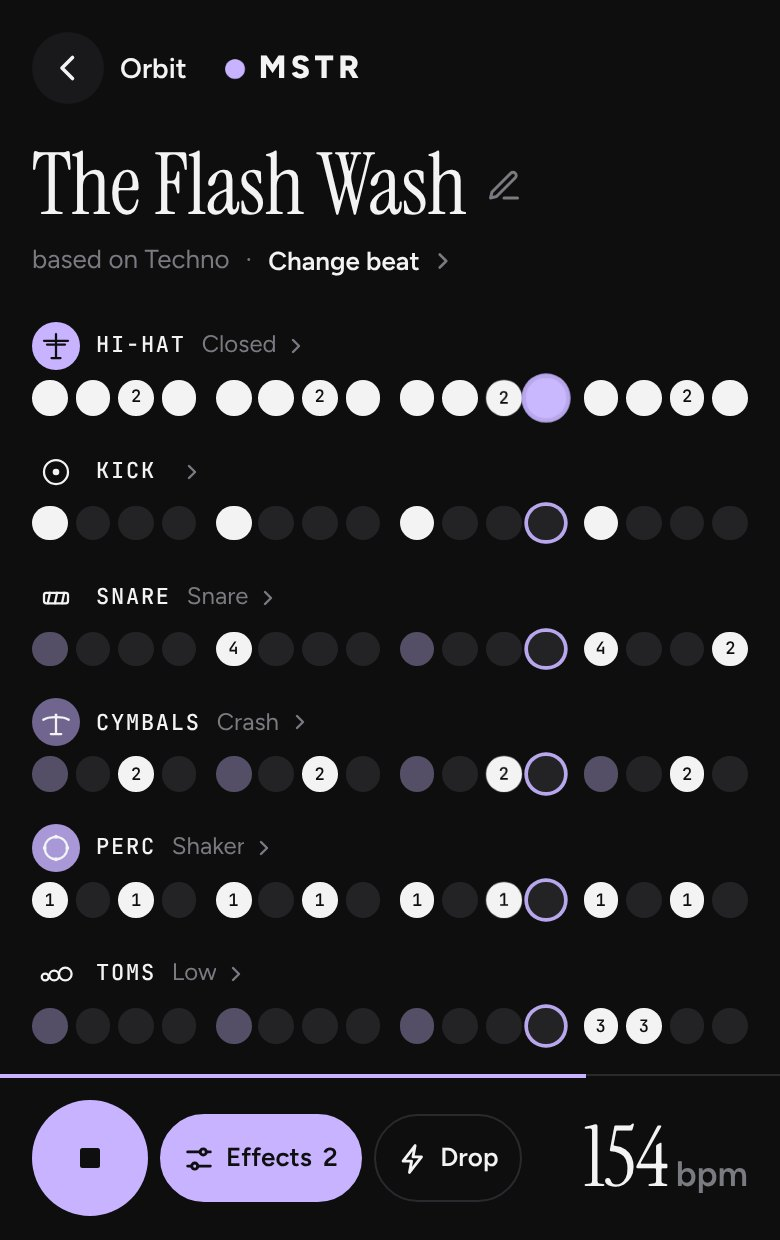
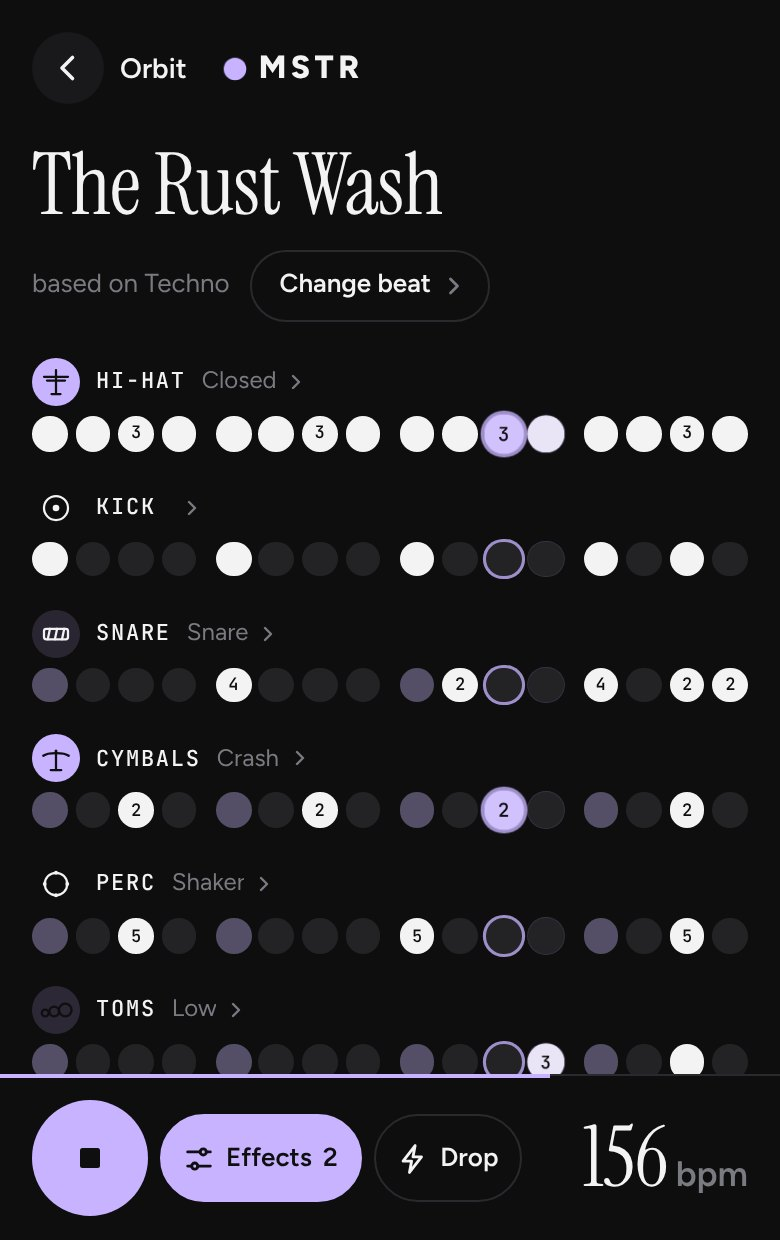
MSTR app: compact Orbit, real takes (mstr #34, #35)
App copy: no "New beat / Undo" toast, machine title read-only with a
"Change beat" pill, compact Orbit (link icon next to Share video, no
explainer line), and "Another take" now gives audibly different takes.
Re-shot vorschau-1 (machine) and vorschau-5 (Orbit).

Claude-Session: https://claude.ai/code/session_01WCtGHXdqNMZgkMLakytpzG

diff --git a/mstr/app/index.html b/mstr/app/index.html
@@ -54,12 +54,9 @@ button:focus-visible,input:focus-visible{outline:2px solid var(--accent);outline
 .pill:active,.ib:active{transform:scale(.97)}
 
 .head{display:flex;flex-direction:column;gap:4px}
-.preset{margin:0;cursor:pointer;display:flex;align-items:center;gap:10px;min-width:0;font-family:var(--f-ed);font-size:clamp(42px,11vw,60px);font-weight:400;letter-spacing:-.01em;line-height:1}
+.preset{margin:0;cursor:default;display:flex;align-items:center;gap:10px;min-width:0;font-family:var(--f-ed);font-size:clamp(42px,11vw,60px);font-weight:400;letter-spacing:-.01em;line-height:1}
 /* Share: der einzige farbige Knopf im Kopf, beim Spielen läuft darin ein winziger Orbit mit */
 .prow{display:flex;align-items:center;gap:14px}
-/* Stift: zeigt, dass der Titel antippbar ist */
-.preset .pen{width:18px;height:18px;flex:none;color:var(--mute)}
-.preset.fixed{cursor:default}.preset.fixed .pen{display:none}
 .preset #preTxt{min-width:0;overflow:hidden;text-overflow:ellipsis;white-space:nowrap}
 /* Textknöpfe: „Change beat“ unter dem Titel, der Link im Orbit */
 .lnk{border:0;background:none;padding:4px 0;font:600 13px var(--f-ui);color:var(--ink);display:inline-flex;align-items:center;gap:5px;cursor:pointer}
@@ -72,9 +69,11 @@ button:focus-visible,input:focus-visible{outline:2px solid var(--accent);outline
 .sayf .ib.go{width:52px;height:52px;flex:none;background:var(--accent);color:var(--on-accent)}
 .sayf .ib.go svg{width:22px;height:22px}
 .pill svg{width:17px;height:17px;flex:none}
-.sub{margin:0;font-size:13px;color:var(--mute);display:flex;align-items:center;gap:8px;min-height:24px}
+.sub{margin:6px 0 0;font-size:13px;color:var(--mute);display:flex;align-items:center;gap:10px;min-height:36px;flex-wrap:wrap}
+/* Change beat: ein eigener Knopf, im Raster wird nur noch der Beat gewechselt, benannt wird im Orbit */
+#preBtn{gap:4px;padding:0 10px 0 14px;color:var(--ink)}
+#preBtn svg{width:14px;height:14px;color:var(--mute)}
 #sub:empty{display:none}
-#sub:not(:empty)::after{content:"·";margin-left:8px}
 .shnote.left{text-align:left}
 
 /* Raster: Name-Zeile über 16 Punkten; ab 640 px Name links */
@@ -289,16 +288,13 @@ input[type=range]::-moz-range-thumb{width:20px;height:20px;border-radius:50%;bac
 .app.molecule .tracks,.app.molecule .beatrow{display:none}
 /* Im Orbit: Pfeil zurück links, die Marke bleibt in der Mitte (rechts ein gleich breiter Platzhalter) */
 .cardfoot{display:flex;gap:8px;align-items:center}
-.takes{display:flex;gap:8px;align-items:center;margin-top:6px}
+.takes{display:flex;gap:8px;align-items:center}
 .takes .play{width:56px;height:56px;flex:none}
 .takes .pill{flex:1;height:44px;padding:0 10px;font-size:13px}
 .takes .pill svg{width:15px;height:15px;flex:none}
-.machine{margin:0;padding:6px 0 2px;text-align:center;font-size:13px;color:var(--mute);display:flex;justify-content:center;gap:6px;align-items:center;flex-wrap:wrap}
+.machine{margin:0;padding:0 0 max(8px,env(safe-area-inset-bottom,0px));text-align:center;font-size:13px;color:var(--mute);display:flex;justify-content:center;gap:6px;align-items:center;flex-wrap:wrap}
 .machine .lnk{font-size:13px}
 .machine[hidden]{display:none}
-.cardlinks{display:flex;justify-content:center;gap:26px;margin-top:-6px}
-.cardlinks .lnk{font-size:14px}
-.cardlinks .lnk svg{width:15px;height:15px}
 /* Farbwahl im Orbit: fünf Punkte, der gewählte trägt einen Ring; die Orbit-Farbe färbt dort auch den Video-Knopf */
 /* Zurückhaltend wie die App: kleine graue Punkte, nur der gewählte trägt seine Farbe; die Tipp-Fläche bleibt groß */
 .hue{display:flex;justify-content:flex-start;gap:2px;height:0;position:relative;z-index:1}
@@ -309,14 +305,17 @@ input[type=range]::-moz-range-thumb{width:20px;height:20px;border-radius:50%;bac
 .hue button:active::after{transform:scale(.8)}
 .app.molecule{--accent:var(--orbit,#C7B3FF)}
 .cardfoot .pill{flex:1;width:auto}
-.cardfoot .ib{width:48px;height:48px}
+.cardfoot .ib{width:44px;height:44px;background:transparent;border:1px solid var(--line)}
+.cardfoot .ib.ok{color:var(--accent);border-color:var(--accent)}
 .app.molecule .head{display:none}
 /* In der Karte gibt es keine Leiste: Tipp auf den Ring spielt und stoppt, Tipp auf den Titel benennt */
 .app.molecule .transport{display:none}
 /* Orbit füllt genau den sichtbaren Bereich, nichts rutscht unter die Safari-Leiste; Play und Effekte stehen in der Reihe beim Knopf */
 .app.molecule{height:100%;height:100dvh;min-height:0;overflow:hidden;box-sizing:border-box}
 .app.molecule .cardfoot{padding-bottom:0}
-#shCardT{min-height:2.7em;padding-bottom:max(10px,env(safe-area-inset-bottom,0px));margin-top:-10px;line-height:1.35}
+/* Hinweis nur, wenn es etwas zu sagen gibt (Video entsteht, fertig, Link kopiert) */
+#shCardT{margin-top:-4px;line-height:1.35}
+.app.molecule{gap:12px}
 /* Video entsteht: der Knopf füllt sich von links mit dem Fortschritt (--p 0..1) */
 .pill.go.gen,.pill.go.gen:disabled{opacity:1;color:var(--ink);border-color:transparent;background:linear-gradient(90deg,color-mix(in srgb,var(--accent) 60%,var(--bg)) calc(var(--p,0) * 100%),color-mix(in srgb,var(--accent) 18%,var(--bg)) calc(var(--p,0) * 100%));transition:background .2s linear}
 </style>
@@ -329,17 +328,16 @@ input[type=range]::-moz-range-thumb{width:20px;height:20px;border-radius:50%;bac
     <span class="eyebrow vibetxt" id="vibeTxt"></span>
   </header>
   <div class="head">
-    <div class="prow"><h1 class="preset" id="preName" title="Name your beat"><span id="preTxt">Amapiano</span><svg class="pen" viewBox="0 0 24 24" aria-hidden="true"><path d="M12 20h9M16.5 3.5a2.1 2.1 0 0 1 3 3L7 19l-4 1 1-4Z" fill="none" stroke="currentColor" stroke-width="2" stroke-linecap="round" stroke-linejoin="round"/></svg></h1></div>
-    <p class="sub"><span id="sub"></span><button type="button" class="lnk" id="preBtn" aria-haspopup="dialog">Change beat<svg viewBox="0 0 24 24" aria-hidden="true"><path d="M9 6l6 6-6 6" fill="none" stroke="currentColor" stroke-width="2.4" stroke-linecap="round" stroke-linejoin="round"/></svg></button></p>
+    <div class="prow"><h1 class="preset" id="preName"><span id="preTxt">Amapiano</span></h1></div>
+    <p class="sub"><span id="sub"></span><button type="button" class="pill" id="preBtn" aria-haspopup="dialog">Change beat<svg viewBox="0 0 24 24" aria-hidden="true"><path d="M9 6l6 6-6 6" fill="none" stroke="currentColor" stroke-width="2.4" stroke-linecap="round" stroke-linejoin="round"/></svg></button></p>
   </div>
   <main class="tracks" id="tracks" aria-label="Tracks"></main>
   <canvas class="mol" id="mol" hidden aria-label="Your beat as an orbit. Tap the ring to play or stop, tap the title to name it, swipe sideways to change the colour" role="button" tabindex="0"></canvas>
   <div class="hue" id="hue" hidden role="radiogroup" aria-label="Orbit colour"></div>
   <div class="takes" id="takes" hidden><button type="button" class="pill" id="takeBtn"><svg viewBox="0 0 24 24" aria-hidden="true"><path d="M4 12a8 8 0 0 1 14-5.3M20 12a8 8 0 0 1-14 5.3M18 3v4h-4M6 21v-4h4" fill="none" stroke="currentColor" stroke-width="2" stroke-linecap="round" stroke-linejoin="round"/></svg>Another take</button><button type="button" class="pill" id="vibeBtn"><svg viewBox="0 0 24 24" aria-hidden="true"><path d="M4 7h16M4 12h10M4 17h6" fill="none" stroke="currentColor" stroke-width="2" stroke-linecap="round"/></svg>Change vibe</button></div>
-  <div class="cardfoot" id="cardfoot" hidden><button type="button" class="pill wide go" id="shCardBtn">Share video</button></div>
-  <div class="cardlinks" id="cardlinks" hidden><button type="button" class="lnk" id="shSend"><svg viewBox="0 0 24 24" aria-hidden="true"><path d="M10 14a4 4 0 0 0 5.7 0l3-3a4 4 0 0 0-5.7-5.7l-1 1M14 10a4 4 0 0 0-5.7 0l-3 3a4 4 0 0 0 5.7 5.7l1-1" fill="none" stroke="currentColor" stroke-width="2" stroke-linecap="round"/></svg><span>Copy link</span></button></div>
+  <div class="cardfoot" id="cardfoot" hidden><button type="button" class="pill wide go" id="shCardBtn">Share video</button><button type="button" class="ib" id="shSend" aria-label="Copy link" title="Copy link"><svg viewBox="0 0 24 24" aria-hidden="true"><path d="M10 14a4 4 0 0 0 5.7 0l3-3a4 4 0 0 0-5.7-5.7l-1 1M14 10a4 4 0 0 0-5.7 0l-3 3a4 4 0 0 0 5.7 5.7l1-1" fill="none" stroke="currentColor" stroke-width="2" stroke-linecap="round"/></svg></button></div>
   <p class="shnote" id="shCardT" hidden></p>
-  <p class="machine" id="machineRow" hidden>Want to tweak every hit? <button type="button" class="lnk" id="vMachine">Open the machine<svg viewBox="0 0 24 24" aria-hidden="true"><path d="M9 6l6 6-6 6" fill="none" stroke="currentColor" stroke-width="2.4" stroke-linecap="round" stroke-linejoin="round"/></svg></button></p>
+  <p class="machine" id="machineRow" hidden><button type="button" class="lnk" id="vMachine">Open the machine<svg viewBox="0 0 24 24" aria-hidden="true"><path d="M9 6l6 6-6 6" fill="none" stroke="currentColor" stroke-width="2.4" stroke-linecap="round" stroke-linejoin="round"/></svg></button></p>
   <div class="trk beatrow" aria-hidden="true"><div class="tl"></div><div class="steps"><div class="grp"><span>1</span><span></span><span></span><span></span></div><div class="grp"><span>2</span><span></span><span></span><span></span></div><div class="grp"><span>3</span><span></span><span></span><span></span></div><div class="grp"><span>4</span><span></span><span></span><span></span></div></div></div>
   <footer class="transport">
     <button type="button" class="play" id="play" aria-label="Play (Space)"></button>
@@ -940,7 +938,7 @@ var WORTE=(function(){
     dnb:"drum ?(and|n|'n'|&) ?bass|dnb|d&b|liquid",
     afrobeats:'afro|afrobeat|afrobeats|nigeria|lagos|afropop',
     reggaeton:'reggaeton|dembow|latin|perreo',
-    minimal:'minimal techno|minimal|microhouse|tech ?house',
+    minimal:'minimal techno|microhouse|tech ?house',
     twostep:'2 ?-?step|two ?-?step|uk garage|ukg|garage',
     jungle:'jungle|breakbeat|breaks|amen',
     electro:'electro|robot|kraftwerk|machine|maschine|roboter',
@@ -966,7 +964,9 @@ var WORTE=(function(){
     ['tired|muede|exhausted|erschoepft|hopeful|hoffnung|gentle|zart|soft|sanft','lofi','onedrop'],
     ['drive|driving|road|strasse|autobahn|highway|cruise|cruising|roadtrip|road trip','techno','house'],
     ['spacey|cosmic|kosmisch|galaxy|galaxie|planet|moon|mond','minimal','techno'],
-    ['glitchy|glitch|broken|kaputt|chopped|stutter','electro','jungle']];
+    ['glitchy|glitch|broken|kaputt|chopped|stutter','electro','jungle'],
+    /* „minimal“ allein ist eher Dichte als Stil: nur wenn nichts anderes davor steht, wird es Minimal */
+    ['minimal|sparse|reduced|reduziert','minimal','minimal']];
   /* Klänge: Spur, Zeichen, Muster (null: eigene Regel unten) */
   var SOUND=[
     ['clap|klatsch',2,'c'],['rim|rimshot|sidestick',2,'k'],
@@ -1017,7 +1017,12 @@ var WORTE=(function(){
     function idx(n){return ctx.n.indexOf(n);}
     /* Stil: was zuerst im Text steht; „minimal techno“ zählt als Minimal */
     for(id in STYLE){i=find(t,STYLE[id]);if(i>=0&&(i<bi||(i===bi&&id==='minimal'))&&!neg(t,i)){bi=i;best=idx(id);}}
-    if(best<0){var mi=1e9;MOOD.forEach(function(m){var j=find(t,m[0]);if(j>=0&&j<mi){mi=j;best=idx(rnd()<.6?m[1]:m[2]);}});}
+    /* Stimmung: die zuerst genannte entscheidet (60/40 zwischen ihren zwei Vorlagen). Bei „Another take“ (ctx.avoid = Vorlage des
+       letzten Takes) kommen alle Vorlagen der genannten Stimmungen in den Topf, und die letzte bleibt draußen, wenn es andere gibt */
+    var styled=best>=0;
+    if(best<0){var mi=1e9,pot=[];MOOD.forEach(function(m){var j=find(t,m[0]);if(j<0)return;[m[1],m[2]].forEach(function(n){if(pot.indexOf(idx(n))<0)pot.push(idx(n));});
+      if(j<mi){mi=j;best=idx(rnd()<.6?m[1]:m[2]);}});
+      if(ctx.avoid!=null&&ctx.avoid===best){var alt=pot.filter(function(q){return q!==ctx.avoid;});if(alt.length)best=pick(alt);}}
     /* Tempo als Zahl (nicht „80s“ oder „90er“) */
     var num=/(^|\s)(\d{2,3})\s*(bpm)?(?=\s)/.exec(t.replace(/\b\d{2}(s|er|ies)\b/g,' ')),bpm=null;
     if(num&&+num[2]>=60&&+num[2]<=180)bpm=+num[2];
@@ -1032,7 +1037,7 @@ var WORTE=(function(){
       if(find(t,'very fast|super fast|sehr schnell|insane|wahnsinnig')>=0)f=1.22;
       else if(find(t,'fast|faster|schnell|quick|hektisch|frantic|rush|uptempo|up-tempo|energetic|treibend|driving')>=0)f=1.1;
       if(find(t,'half ?time|halftime')>=0)f*=.75;if(find(t,'double ?time')>=0)f*=1.3;
-      bpm=Math.round(base*f+(rnd()-.5)*4);}
+      bpm=Math.round(base*f+(rnd()-.5)*12);}
     bpm=Math.max(60,Math.min(180,bpm));
     /* Swing */
     if(find(t,'swing|swung|shuffle|wonky|drunk|betrunken|lazy|laid ?back|groovy|jazzy|bouncy|dilla|loose|locker')>=0)sw=Math.max(sw,find(t,'very|heavy|sehr|drunk|betrunken|dilla')>=0?.45:.3);
@@ -1052,10 +1057,18 @@ var WORTE=(function(){
       if(g[4]===dots('................'))g[4]=dots(pick(['1.1.1.1.1.1.1.1.','4..4..4...4.4...','..1...1...1...1.']));
       if(g[5]===dots('................'))g[5]=dots('............tpb.');}
 
-    /* Etwas Zufall, damit jede Beschreibung leicht anders klingt: ein paar Hats tauschen, mal eine Ghost-Note */
-    for(k=0;k<16;k++){var c=g[0].charAt(k);if(c==='x'&&k%4===3&&rnd()<.2)g[0]=set(g[0],k,'k');}
-    if(!sparse&&rnd()<.5){var gs=pick([3,7,11,14,15]);if(g[2].charAt(gs)==='0')g[2]=set(g[2],gs,'k');}
-    if(!sparse&&rnd()<.3){var ks=pick([6,10,11,14]);if(g[1].charAt(ks)==='0')g[1]=set(g[1],ks,'b');}
+    /* Jeder Take bekommt einen eigenen Groove, damit „Another take“ hörbar anders ist: Hi-Hat-Figur, Kick-Schub, Ghost-Notes,
+       Percussion, Tom-Fill und FX-Akzent werden neu gewürfelt; genannte Klänge und „ohne …“ kommen danach und gewinnen */
+    var EMPTY=dots('................');
+    if(g[0]!==EMPTY&&rnd()<.75)g[0]=dots(pick(sparse?['..o...o...o...o.','x...x...x...x...','..x...x...x..kx.']:
+      ['x.x.x.x.x.x.x.x.','xkxkxkxkxkxkxkxk','x.xkx.x.x.xkx.xx','..o...o...o...o.','x.o.x.o.x.o.x.o.','xxkxxxkxxxkxxxkx','x..xx.x.x..xx.x.']));
+    if(g[1]!==EMPTY&&rnd()<.6){var kv=pick(sparse?[[3],[10],[14]]:[[3],[6],[10,11],[14],[7,10],[6,14]]);kv.forEach(function(q){if(g[1].charAt(q)==='0')g[1]=set(g[1],q,'b');});}
+    if(!sparse&&g[2]!==EMPTY){var gn=1+Math.floor(rnd()*3);while(gn--){var gs=pick([2,3,7,9,11,14,15]);if(g[2].charAt(gs)==='0')g[2]=set(g[2],gs,'k');}}
+    if(!sparse&&rnd()<.55)g[4]=dots(pick(['1.1.1.1.1.1.1.1.','4..4..4...4.4...','..1...1...1...1.','3..3..3...3.3...','..5.....5.....5.','1111.1.11111.1.1','....2.......2...']));
+    else if(sparse&&rnd()<.5)g[4]=dots(pick(['..1...1...1...1.','....2.......2...','..5.....5.....5.','3.....3.....3...']));
+    if(rnd()<.35)g[5]=dots(pick(['............t.p.','..............pb','...........t..b.','............tpb.']));
+    if(!sparse&&rnd()<.3)g[6]=dots(pick(['....m.......m...','............z...','............s...','m.......m.......']));
+    if(!styled&&ctx.avoid!=null&&find(t,'straight|gerade|tight|robotic|mechanical|mechanisch')<0&&rnd()<.35)sw=Math.min(.45,sw+.1+rnd()*.12);
 
     /* Klänge, die genannt werden; „ohne …“ leert die Spur */
     SOUND.forEach(function(s){i=find(t,s[0]);if(i<0||neg(t,i))return;var r=s[1];
@@ -1070,13 +1083,18 @@ var WORTE=(function(){
     /* Effekte: alles aus, außer was gesagt wird; Lo-Fi und Dub bringen ihr Vinyl und Echo mit */
     var fx={};
     FXW.forEach(function(f){i=find(t,f[1]);if(i>=0&&!neg(t,i))fx[f[0]]=[amount(t,i),f[2]];});
+    var said=Object.keys(fx);
     if(ctx.n[best]==='lofi'&&!fx.lofi&&find(t,'vinyl|staub|dust')<0&&!/(no|without|ohne|kein)\s+(vinyl|crackle|knistern)/.test(t))fx.lofi=[45,0];
     if(find(t,'dub')>=0&&!fx.echo)fx.echo=[60,3];
     if(find(t,'dreamy|traeum|ambient|ethereal|floating|schweben')>=0&&!fx.echo)fx.echo=[35,3];
     /* Nichts genannt: der Stil bringt seine Effekte mit, die Stimmung legt einen dazu; „dry“ lässt alles aus */
     if(find(t,DRY)<0){
       if(!Object.keys(fx).length){var sf=STYLEFX[ctx.n[best]]||[['room',30,0]];fx[sf[0][0]]=[sf[0][1],sf[0][2]];if(sf[1]&&rnd()<.5)fx[sf[1][0]]=[sf[1][1],sf[1][2]];}
-      MOODFX.forEach(function(m){if(!fx[m[1]]&&Object.keys(fx).length<3&&find(t,m[0])>=0&&!neg(t,find(t,m[0])))fx[m[1]]=[m[2],m[3]];});}
+      MOODFX.forEach(function(m){if(!fx[m[1]]&&Object.keys(fx).length<3&&find(t,m[0])>=0&&!neg(t,find(t,m[0])))fx[m[1]]=[m[2],m[3]];});
+      /* Ein Take würfelt auch die Effekte: Stärken streuen (genannte behalten ihre Stärke), manchmal kommt einer dazu */
+      var POOL=[['room',35,0],['echo',30,3],['sweep',35,4],['pump',35,4],['stut',30,2],['lofi',35,0]];
+      if(Object.keys(fx).length<3&&rnd()<.45){var ex=pick(POOL);if(!fx[ex[0]])fx[ex[0]]=[ex[1],ex[2]];}
+      for(id in fx)if(said.indexOf(id)<0)fx[id]=[Math.max(15,Math.min(95,Math.round(fx[id][0]*(.75+rnd()*.55)))),fx[id][1]];}
     return {pre:best,bpm:bpm,sw:Math.max(0,Math.min(.6,sw)),g:g,fx:fx};
   };
 })();
@@ -1262,7 +1280,6 @@ var WORTE=(function(){
     $('preTxt').textContent=title||(pre>=0?NM[BEATS[pre].n]:'Your beat');
     $('sub').textContent=title&&pre>=0?'based on '+NM[BEATS[pre].n]:pre>=0&&edited?'edited':'';
     /* Eine unveränderte Vorlage behält ihren Namen: kein Stift, kein Namens-Blatt */
-    $('preName').classList.toggle('fixed',!canName());$('preName').title=canName()?'Name your beat':'';
     if(cb&&molOn)cardLabel();
   }
   function changed(){edited=true;paint();persist();}
@@ -1468,10 +1485,14 @@ var WORTE=(function(){
   }
   /* „Another take“: dieselbe Beschreibung noch einmal (der Parser würfelt leicht); ohne Beschreibung nimmt er den Stil der Vorlage, ohne beides fragt er nach dem Vibe */
   function anotherTake(){var t=typeof S.say==='string'&&S.say.trim()?S.say:pre>=0?BEATS[pre].n:'';if(!t){vibe();return;}sayBeat(t);}
+  var lastSay=typeof S.say==='string'?S.say.trim():'';
   function sayBeat(text){
     text=String(text||'').trim();if(!text)return false;
-    var o=WORTE(text,{n:BEATS.map(function(b){return b.n;}),bpm:BEATS.map(function(b){return b.bpm;}),sw:BEATS.map(function(b){return b.sw;}),rows:beatRows});
-    var before=snap(),r;
+    /* Gleicher Satz wie eben = ein neuer Take: andere Vorlage, wenn die Stimmung eine hergibt, und deutlich anderes Muster (bis zu acht Würfe) */
+    var again=text===lastSay,ctxW={n:BEATS.map(function(b){return b.n;}),bpm:BEATS.map(function(b){return b.bpm;}),sw:BEATS.map(function(b){return b.sw;}),rows:beatRows,avoid:again?pre:null},o,tries=0;
+    do{o=WORTE(text,ctxW);}while(again&&++tries<8&&o.g.reduce(function(n,row,r){for(var k=0;k<16;k++)if(row.charAt(k)!==pat[r].charAt(k))n++;return n;},0)<12);
+    lastSay=text;
+    var r;
     for(r=0;r<7;r++)pat[r]=o.g[r];
     bpm=o.bpm;sw=o.sw;pre=o.pre;edited=true;
     FXS.forEach(function(f){var id=f[0],x=o.fx[id];FX[id]=!!x;if(x){FXA[id]=x[0];if(f[4]&&f[4].some(function(q){return q[0]===x[1];}))FXO[id]=x[1];}});
@@ -1479,10 +1500,8 @@ var WORTE=(function(){
     /* Der Name kommt aus dem Beat selbst, nicht aus dem getippten Text */
     title=CARD.title(cardModel(),Math.floor(Math.random()*8));paint();persist();
     if(!playing)setPlay(true);
-    showToast('New beat','Undo',function(){restore(before);});
     return true;
   }
-$('preName').addEventListener('click',function(){if(canName())nameSheet();});
 
   function tempoSheet(){
     var taps=[];
@@ -1703,14 +1722,14 @@ $('preName').addEventListener('click',function(){if(canName())nameSheet();});
       by.addEventListener('keydown',function(e){if(e.key==='Enter'){e.preventDefault();closeSheet();}});
     },'name','top');
   }
-  /* Der Link steht im Orbit als Textzeile unter dem Video-Knopf; die Hinweiszeile darunter antwortet */
+  /* Der Link ist ein runder Knopf neben dem Video-Knopf; die Hinweiszeile darunter antwortet kurz */
   (function(){
     var sb=$('shSend'),sbT=0;
-    function sendLabel(){sb.querySelector('span').textContent=nativeShare()?'Send link':'Copy link';}
+    function sendLabel(){var t=nativeShare()?'Send link':'Copy link';sb.setAttribute('aria-label',t);sb.title=t;sb.classList.remove('ok');}
     sendLabel();window.addEventListener('resize',sendLabel);
     sb.addEventListener('click',function(){shareBeat(function(){
-      var own=pat[MIC]&&pat[MIC]!==zero();cardNote('Link copied. Paste it into a chat or mail, it opens your beat on asimplemanslab.com/mstr.'+(own?' Your recording stays on this device.':''));
-      sb.querySelector('span').textContent='\u2713 Link copied';clearTimeout(sbT);sbT=setTimeout(function(){sendLabel();},2500);});});
+      var own=pat[MIC]&&pat[MIC]!==zero();cardNote('Link copied.'+(own?' Your recording stays on this device.':''));
+      sb.classList.add('ok');sb.setAttribute('aria-label','Link copied');clearTimeout(sbT);sbT=setTimeout(function(){sendLabel();cardNote('');},2500);});});
   })();
   /* „Share“ in der Karten-Ansicht: Ton offline rechnen, Video in Echtzeit aufnehmen (die Karten-Ansicht zeigt derweil die Aufnahme),
      dann teilen (Handy) oder sichern (Rechner). Ohne Video gibt es ein Bild. Dieselbe Datei wird beim zweiten Tipp sofort gegeben */
@@ -1722,9 +1741,8 @@ $('preName').addEventListener('click',function(){if(canName())nameSheet();});
   function cardNote(t){ct.textContent=t;ct.hidden=!t||!molOn;}
   function cardLabel(){if(busyC)return;cb.classList.remove('gen');cb.style.removeProperty('--p');var ready=cfile&&ckey===cardKey(),mob=nativeShare(),secs=Math.round(CARD.clipLen(bpm));
     cb.textContent=video?(mob?'Share video':'Save video'):(mob?'Share image':'Save image');
-    if(!video){cardNote(ready?'Ready. Tap to share it again.':'A picture of your orbit for Story and chats.');return;}
-    if(ready)cardNote(mob?'Ready, '+secs+' s with sound. Tap to open the share sheet, the link to your beat comes along. It stays until you change the beat.':'Ready, '+secs+' s with sound. Tap to save it again, it stays until you change the beat.');
-    else cardNote('Makes a '+secs+' s video with sound for Story, Reels and chats, then '+(mob?'opens the share sheet with the link to your beat':'saves it')+'. Takes as long as the video.');}
+    if(!video){cardNote(ready?'Ready. Tap to share it again.':'');return;}
+    cardNote(ready?(mob?'Ready, '+secs+' s with sound. Tap to share.':'Ready, '+secs+' s with sound. Tap to save it again.'):'');}
   /* Am Handy reist der Link als Text mit dem Video: in Chats kommt beides in einer Nachricht an, Instagram nimmt nur das Video */
   /* Am Handy öffnet erst ein frischer Tipp das Teilen-Menü (iOS verweigert es ohne Geste); verweigert es trotzdem, wird die Datei gesichert */
   function giveCard(f){
@@ -1800,9 +1818,8 @@ $('preName').addEventListener('click',function(){if(canName())nameSheet();});
     molS.fire({s:q,b:b,h:h,st:stu?1:0},performance.now());
     if(stu)setTimeout(function(){if(molOn&&playing)molS.fire({s:q,b:b,h:h,st:1},performance.now());},st()*500);}
   var transport=document.querySelector('.transport');
-  var links=$('cardlinks');
-  /* Der Orbit ist die Startseite, das Raster ist „die Maschine“ dahinter (S.view 'grid'); Play wandert mit in die Reihe bei Another take */
-  function molSet(on){molOn=!!on;if(!molOn)cardStop();app.classList.toggle('molecule',molOn);molC.hidden=!molOn;foot.hidden=!molOn;hueRow.hidden=!molOn;links.hidden=!molOn;takes.hidden=!molOn;machineRow.hidden=!molOn;vOrbit.hidden=molOn;vibeTxt.hidden=!molOn;
+    /* Der Orbit ist die Startseite, das Raster ist „die Maschine“ dahinter (S.view 'grid'); Play wandert mit in die Reihe bei Another take */
+  function molSet(on){molOn=!!on;if(!molOn)cardStop();app.classList.toggle('molecule',molOn);molC.hidden=!molOn;foot.hidden=!molOn;hueRow.hidden=!molOn;takes.hidden=!molOn;machineRow.hidden=!molOn;vOrbit.hidden=molOn;vibeTxt.hidden=!molOn;
     if(molOn){takes.insertBefore(playB,takes.firstChild);cardLabel();vibeUI();forceDark();}else{transport.insertBefore(playB,transport.firstChild);ct.hidden=true;themeUI();}
     S.view=molOn?'':'grid';save();if(molOn){molModel();molSize();molGo();}}
   function vibeUI(){var t=typeof S.say==='string'?S.say.trim():'';vibeTxt.textContent=t.length>26?t.slice(0,25).trim()+'…':t;}
@@ -1821,7 +1838,7 @@ $('preName').addEventListener('click',function(){if(canName())nameSheet();});
   document.addEventListener('visibilitychange',function(){if(!document.hidden)molGo();});window.addEventListener('pageshow',molGo);
   molSet(S.view!=='grid');
 
-  window.MSTR={welcome:vibe,vibe:vibe,take:anotherTake,view:molSet,say:sayBeat,setPlay:setPlay,renderClip:renderClip,card:CARD,code:shareCode,url:shareUrl,hue:setHue,state:function(){return {pat:pat.slice(),bpm:bpm,sw:sw,pre:pre,playing:playing,col:col,fx:JSON.parse(JSON.stringify(FX)),fxa:JSON.parse(JSON.stringify(FXA)),fxo:JSON.parse(JSON.stringify(FXO))};}};
+  window.MSTR={name:nameSheet,welcome:vibe,vibe:vibe,take:anotherTake,view:molSet,say:sayBeat,setPlay:setPlay,renderClip:renderClip,card:CARD,code:shareCode,url:shareUrl,hue:setHue,state:function(){return {pat:pat.slice(),bpm:bpm,sw:sw,pre:pre,playing:playing,col:col,fx:JSON.parse(JSON.stringify(FX)),fxa:JSON.parse(JSON.stringify(FXA)),fxo:JSON.parse(JSON.stringify(FXO))};}};
 })();
 
 })();
